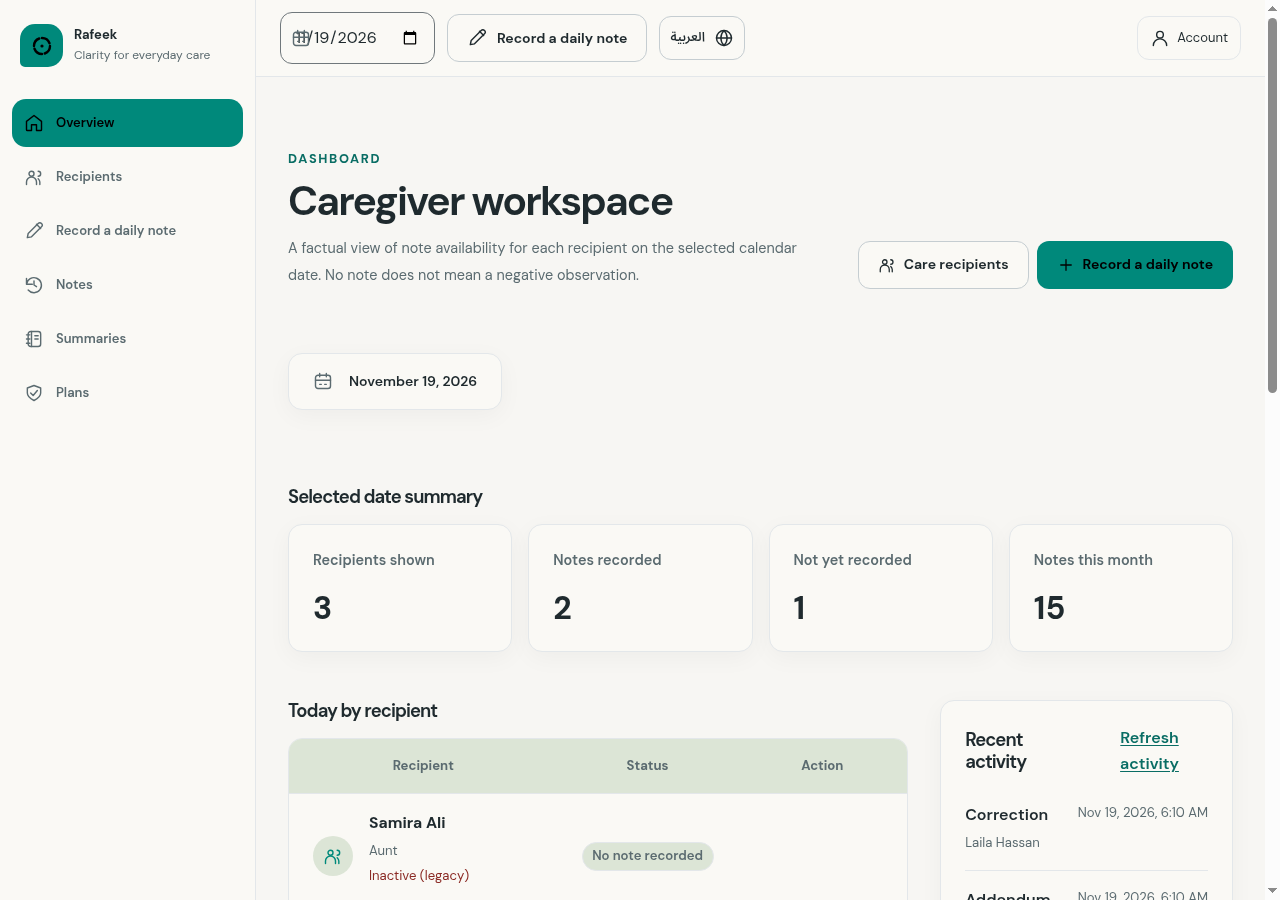
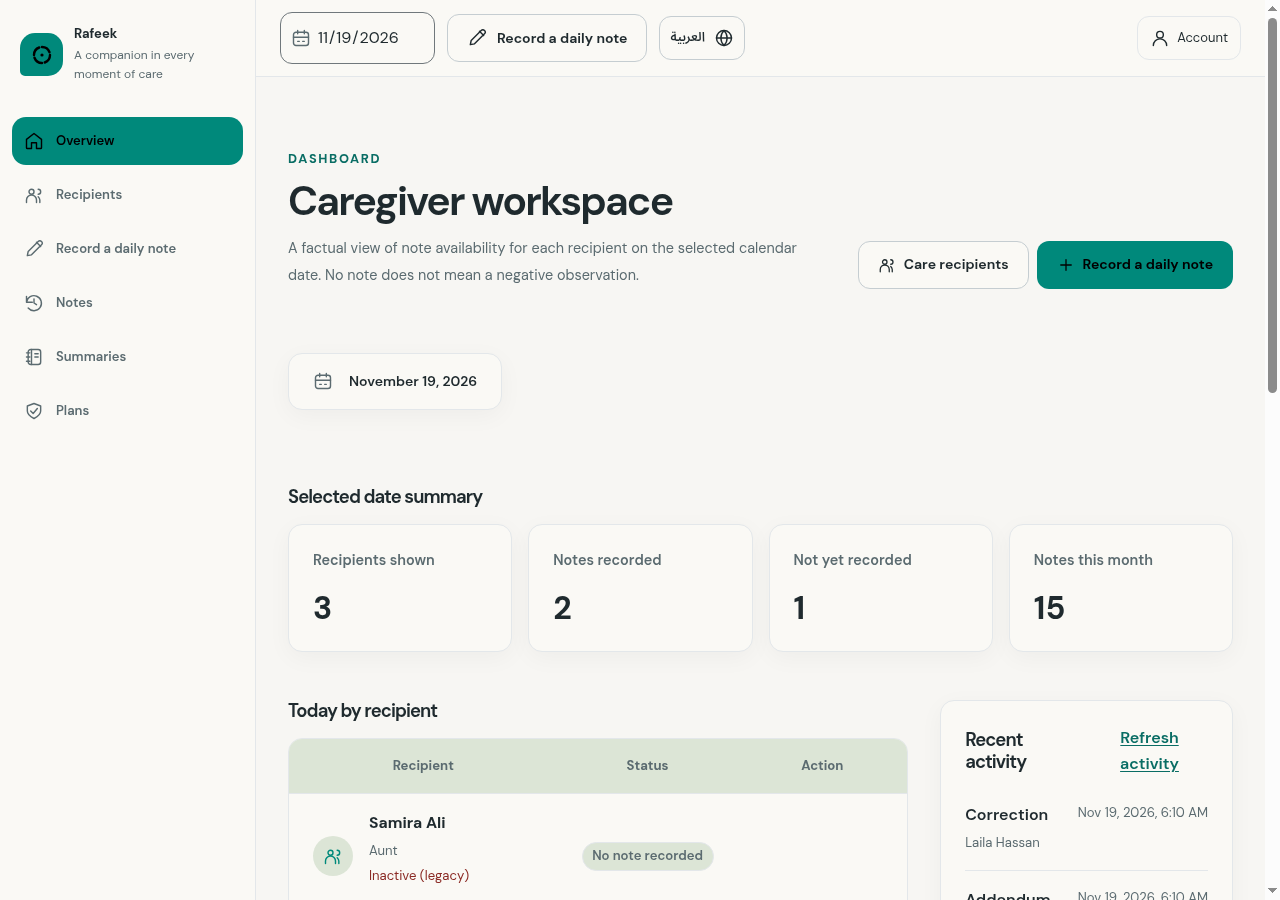
docs: README gallery — 2 clean web + 3 mobile screenshots
Web: dashboard and notes history (native date/select inputs restyled
for headless capture; no overlap artifacts). Mobile: home with care
alert + dose, bilingual history with fall tag, Arabic RTL home.
Supersedes PR #1094.

diff --git a/README.md b/README.md
@@ -44,12 +44,21 @@ Notes are never edited in place. Corrections are appended as **addenda** or as t
 
 ## Screenshots
 
+### Web app
+
 <p align="center">
   <img src="docs/screenshots/web/en-03-home.png" alt="Web workspace — daily overview with note availability and recent activity" width="760" />
 </p>
 <p align="center">
-  <img src="docs/screenshots/android/12-home-medication-dose.png" alt="Android home — care alert, medication dose tracking, and daily notes" width="320" />
-  <img src="docs/screenshots/android/39-home-ar.png" alt="Android home in Arabic — full RTL layout" width="320" />
+  <img src="docs/screenshots/web/en-08-history.png" alt="Notes history — filterable list of original notes and corrections" width="760" />
+</p>
+
+### Mobile app (Android)
+
+<p align="center">
+  <img src="docs/screenshots/android/12-home-medication-dose.png" alt="Android home — care alert, medication dose tracking, and daily notes" width="240" />
+  <img src="docs/screenshots/android/15-history.png" alt="Android history — bilingual notes with a fall safety tag" width="240" />
+  <img src="docs/screenshots/android/39-home-ar.png" alt="Android home in Arabic — full RTL layout" width="240" />
 </p>
 
 Captured from the running apps with synthetic data: the web client against a local Spring Boot + PostgreSQL backend, and the Android offline demo on a cloud device. The full set — every screen in English and Arabic, desktop and mobile — is in [`docs/screenshots/`](docs/screenshots/).
